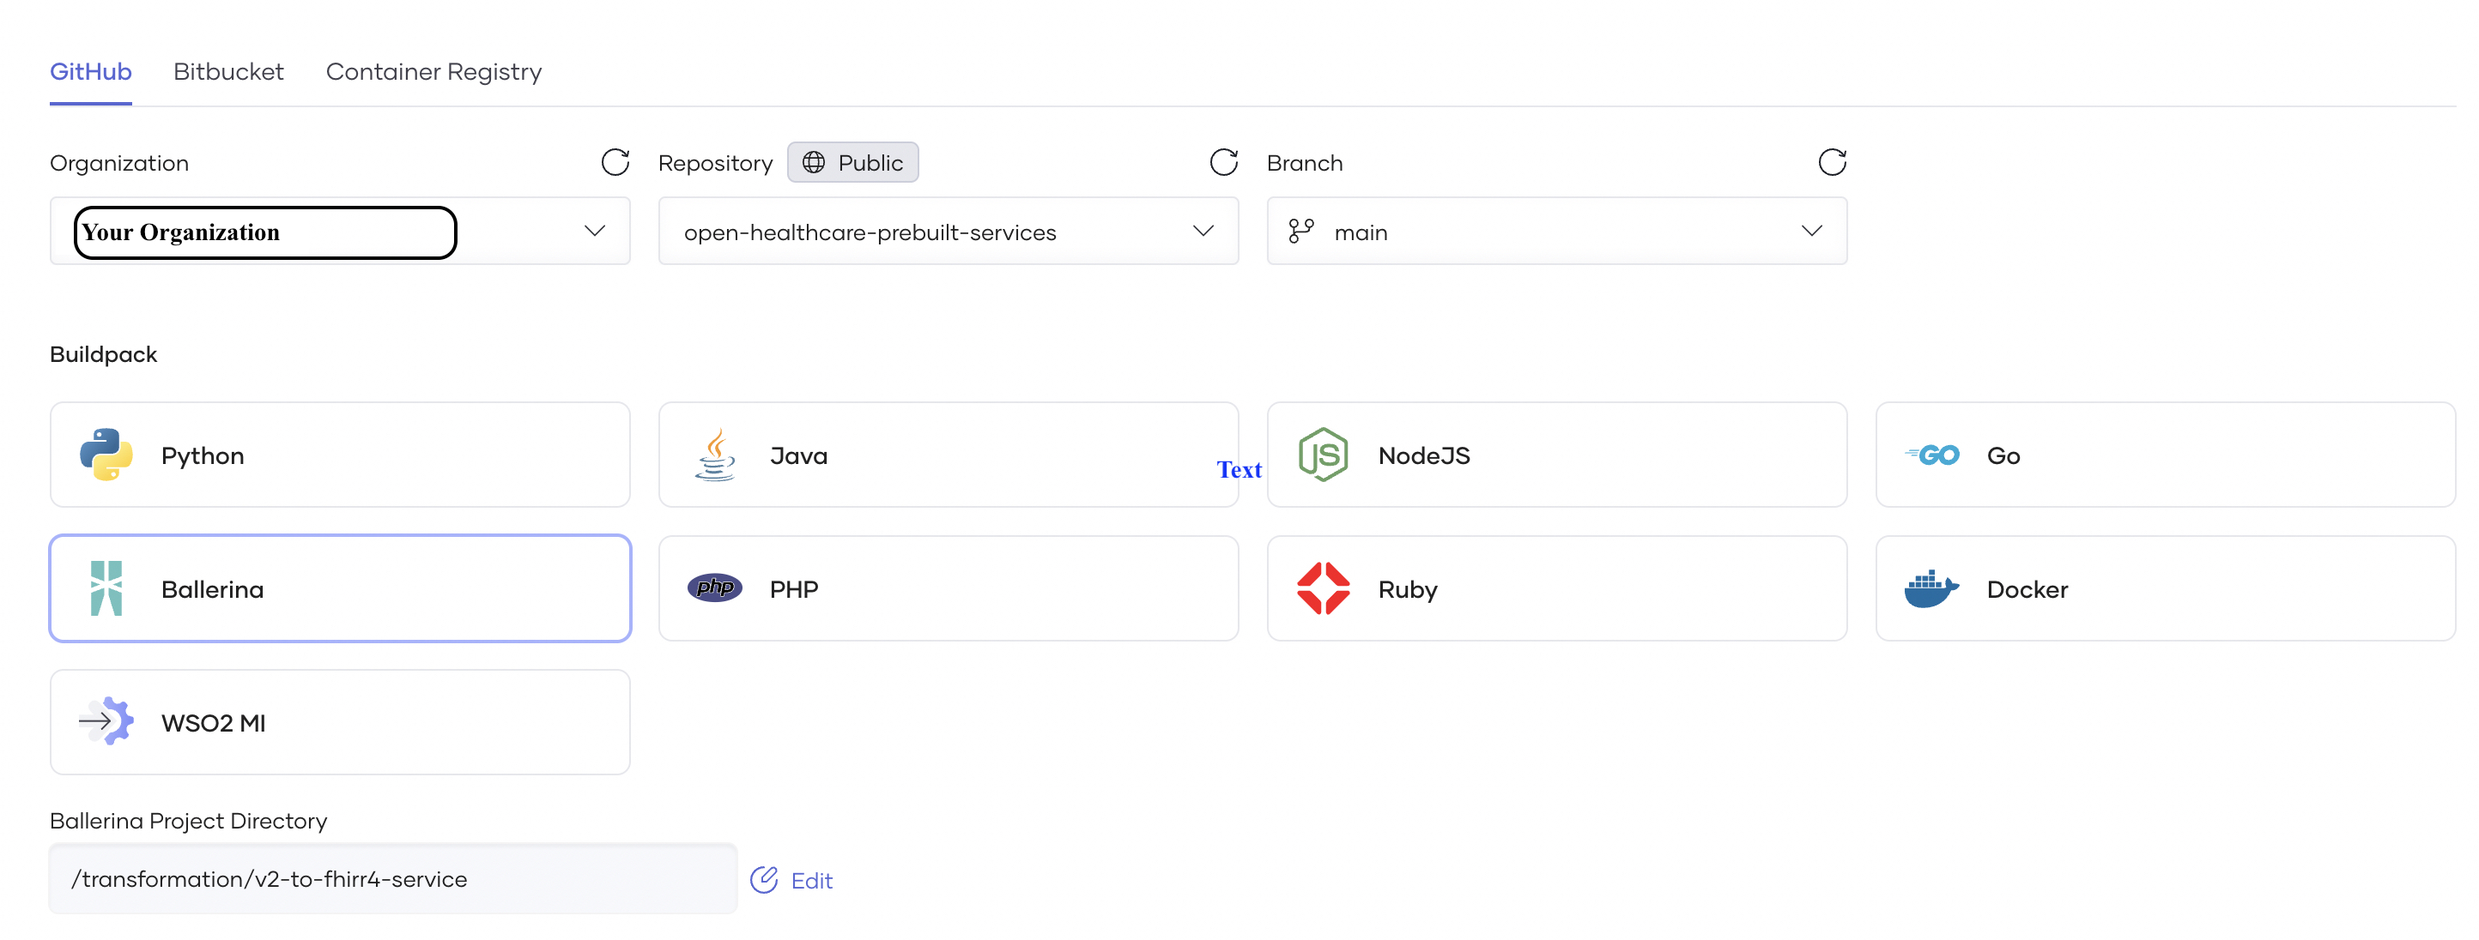
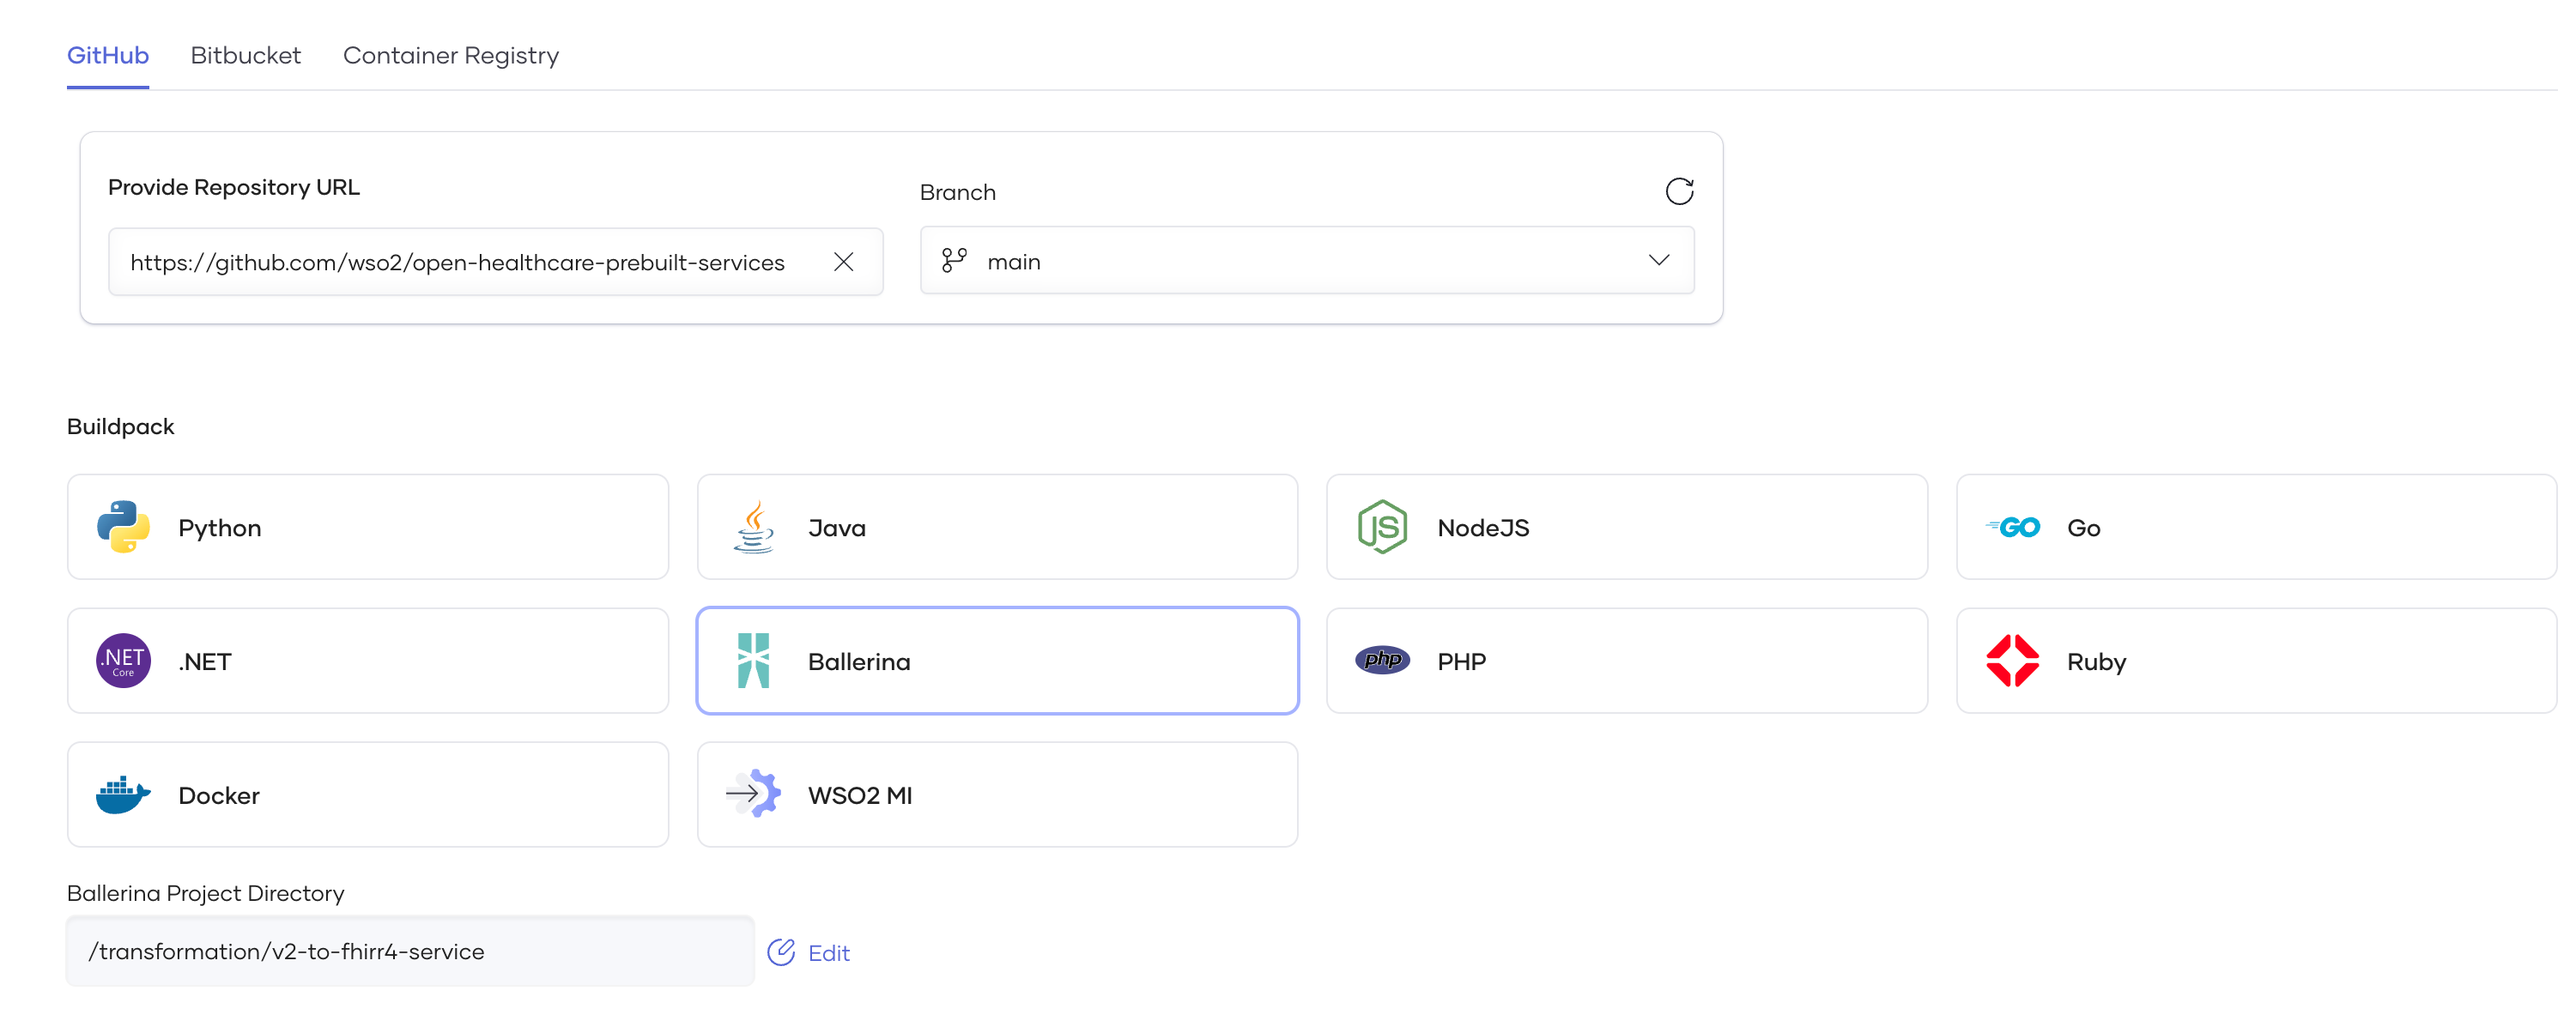
Add custom service config

diff --git a/transformation/v2-to-fhirr4-service/README.md b/transformation/v2-to-fhirr4-service/README.md
@@ -29,6 +29,39 @@ You do not have to write code from scratch but reuse these existing services whe
     --data-raw 'MSH|^~\&|EPIC|EPICADT|SMS|SMSADT|202211031408|CHARRIS|ADT^A01|1817457|D|2.8'
     ```
 
+## Customization
+
+You can customize the v2 segments to FHIR transformation logic by implement a service with custom mappings and configure the v2-to-fhirr4-service to invoke the custom service. This custom service can be implemented from Ballerina by using the template or use the OAS definition provided(resources/custom-mapping-service-openapi.yaml) to implement your service using any other technology. Following is the command to initiate the Ballerina template. 
+
+```bash
+bal new <service_name> -t ballerinax/v2_to_fhir_custom_service
+```
+
+You can configure the v2-to-fhir-service to point your custom service to invoke the mapping endpoints. Following is a sample configuration structure to invoke a custom service.
+
+```toml
+[serviceConfig]
+baseUrl = "http://localhost:9091/v2tofhir"
+
+[serviceConfig.segmentToAPI.NK1]
+path = "/segment/nk1"
+
+[serviceConfig.segmentToAPI.PID]
+path = "/segment/pid"
+useDefault = true
+```
+
+
+| Table | Field | Description |
+|-------|-------|-------------|
+| `serviceConfig`| `baseUrl` | The base URL of the custom service. |
+| `serviceConfig.segmentToAPI.<segmentName>`| | Nested table to hold the endpoint configuration for the custom segment mapping |
+| `serviceConfig.segmentToAPI.<segmentName>`| `path` | The path of the custom service endpoint. |
+| `serviceConfig.segmentToAPI.<segmentName>`| `useDefault` | If true, the default transformation logic will be used. If false, the custom service will be invoked. The default value is false. |
+
+> **Note:** If you deploy this to [Choreo](https://wso2.com/choreo/), you can apply configurations through the [config editor](https://wso2.com/choreo/docs/devops-and-ci-cd/manage-configurations-and-secrets/#manage-ballerina-configurables) in the Choreo console.
+
+
 ## [Optional] Deploy in Choreo
 
 WSO2’s Choreo (https://wso2.com/choreo/) is an internal developer platform that redefines how you create digital experiences. Choreo empowers you to seamlessly design, develop, deploy, and govern your cloud native applications, unlocking innovation while reducing time-to-market. You can deploy the healthcare prebuilt services in Choreo as explained below. 
@@ -45,8 +78,7 @@ This creates the organization and opens the Project Home page of the default pro
 
 ### Steps to Deploy HL7 v2 to FHIR prebuilt service in Choreo
 1. Create Service Component
-    * Fork the pre-built Ballerina services repository (https://github.com/wso2/open-healthcare-prebuilt-services) to your Github organization.
-    * Follow the official documentation to create and configure a service: https://wso2.com/choreo/docs/develop-components/develop-services/develop-a-ballerina-rest-api/#step-1-create-a-service-component. Use the following selections. 
+    * Follow the official documentation to create and configure a service: https://wso2.com/choreo/docs/develop-components/develop-services/develop-a-ballerina-rest-api/#step-1-create-a-service-component. Fill **Provide Repository URL** as "https://github.com/wso2/open-healthcare-prebuilt-services" and use the following selections. 
 
         ![Alt](create-prebuilt-service-v2-fhir.png "Create a hl7v2 to FHIR service in Choreo")
 
